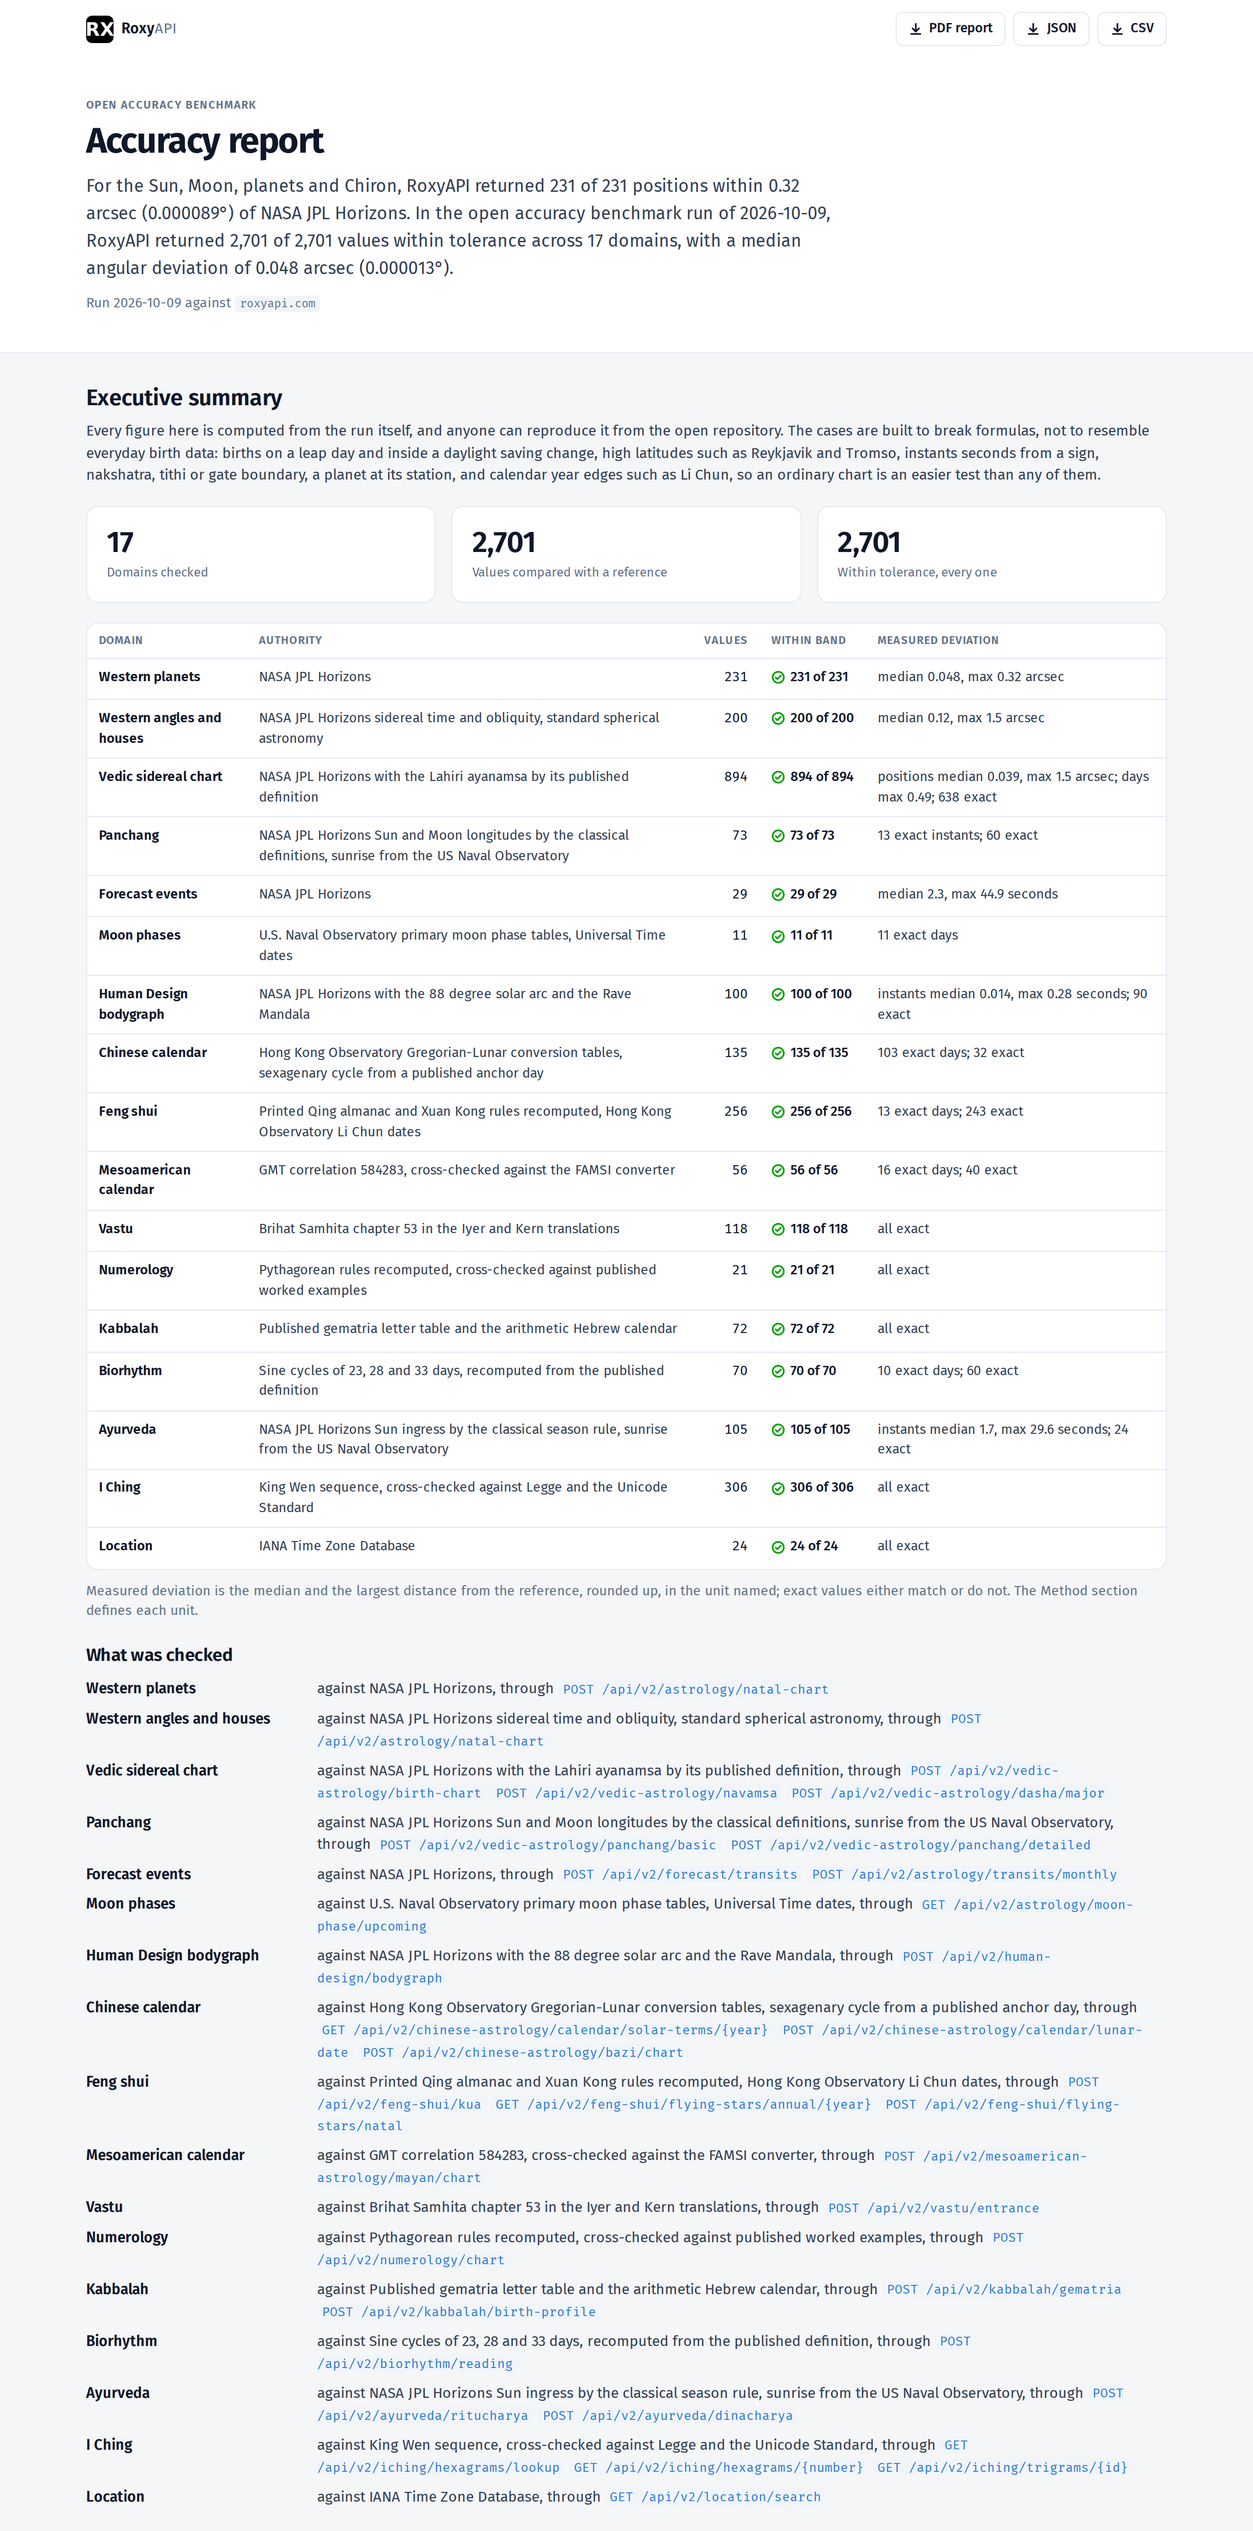
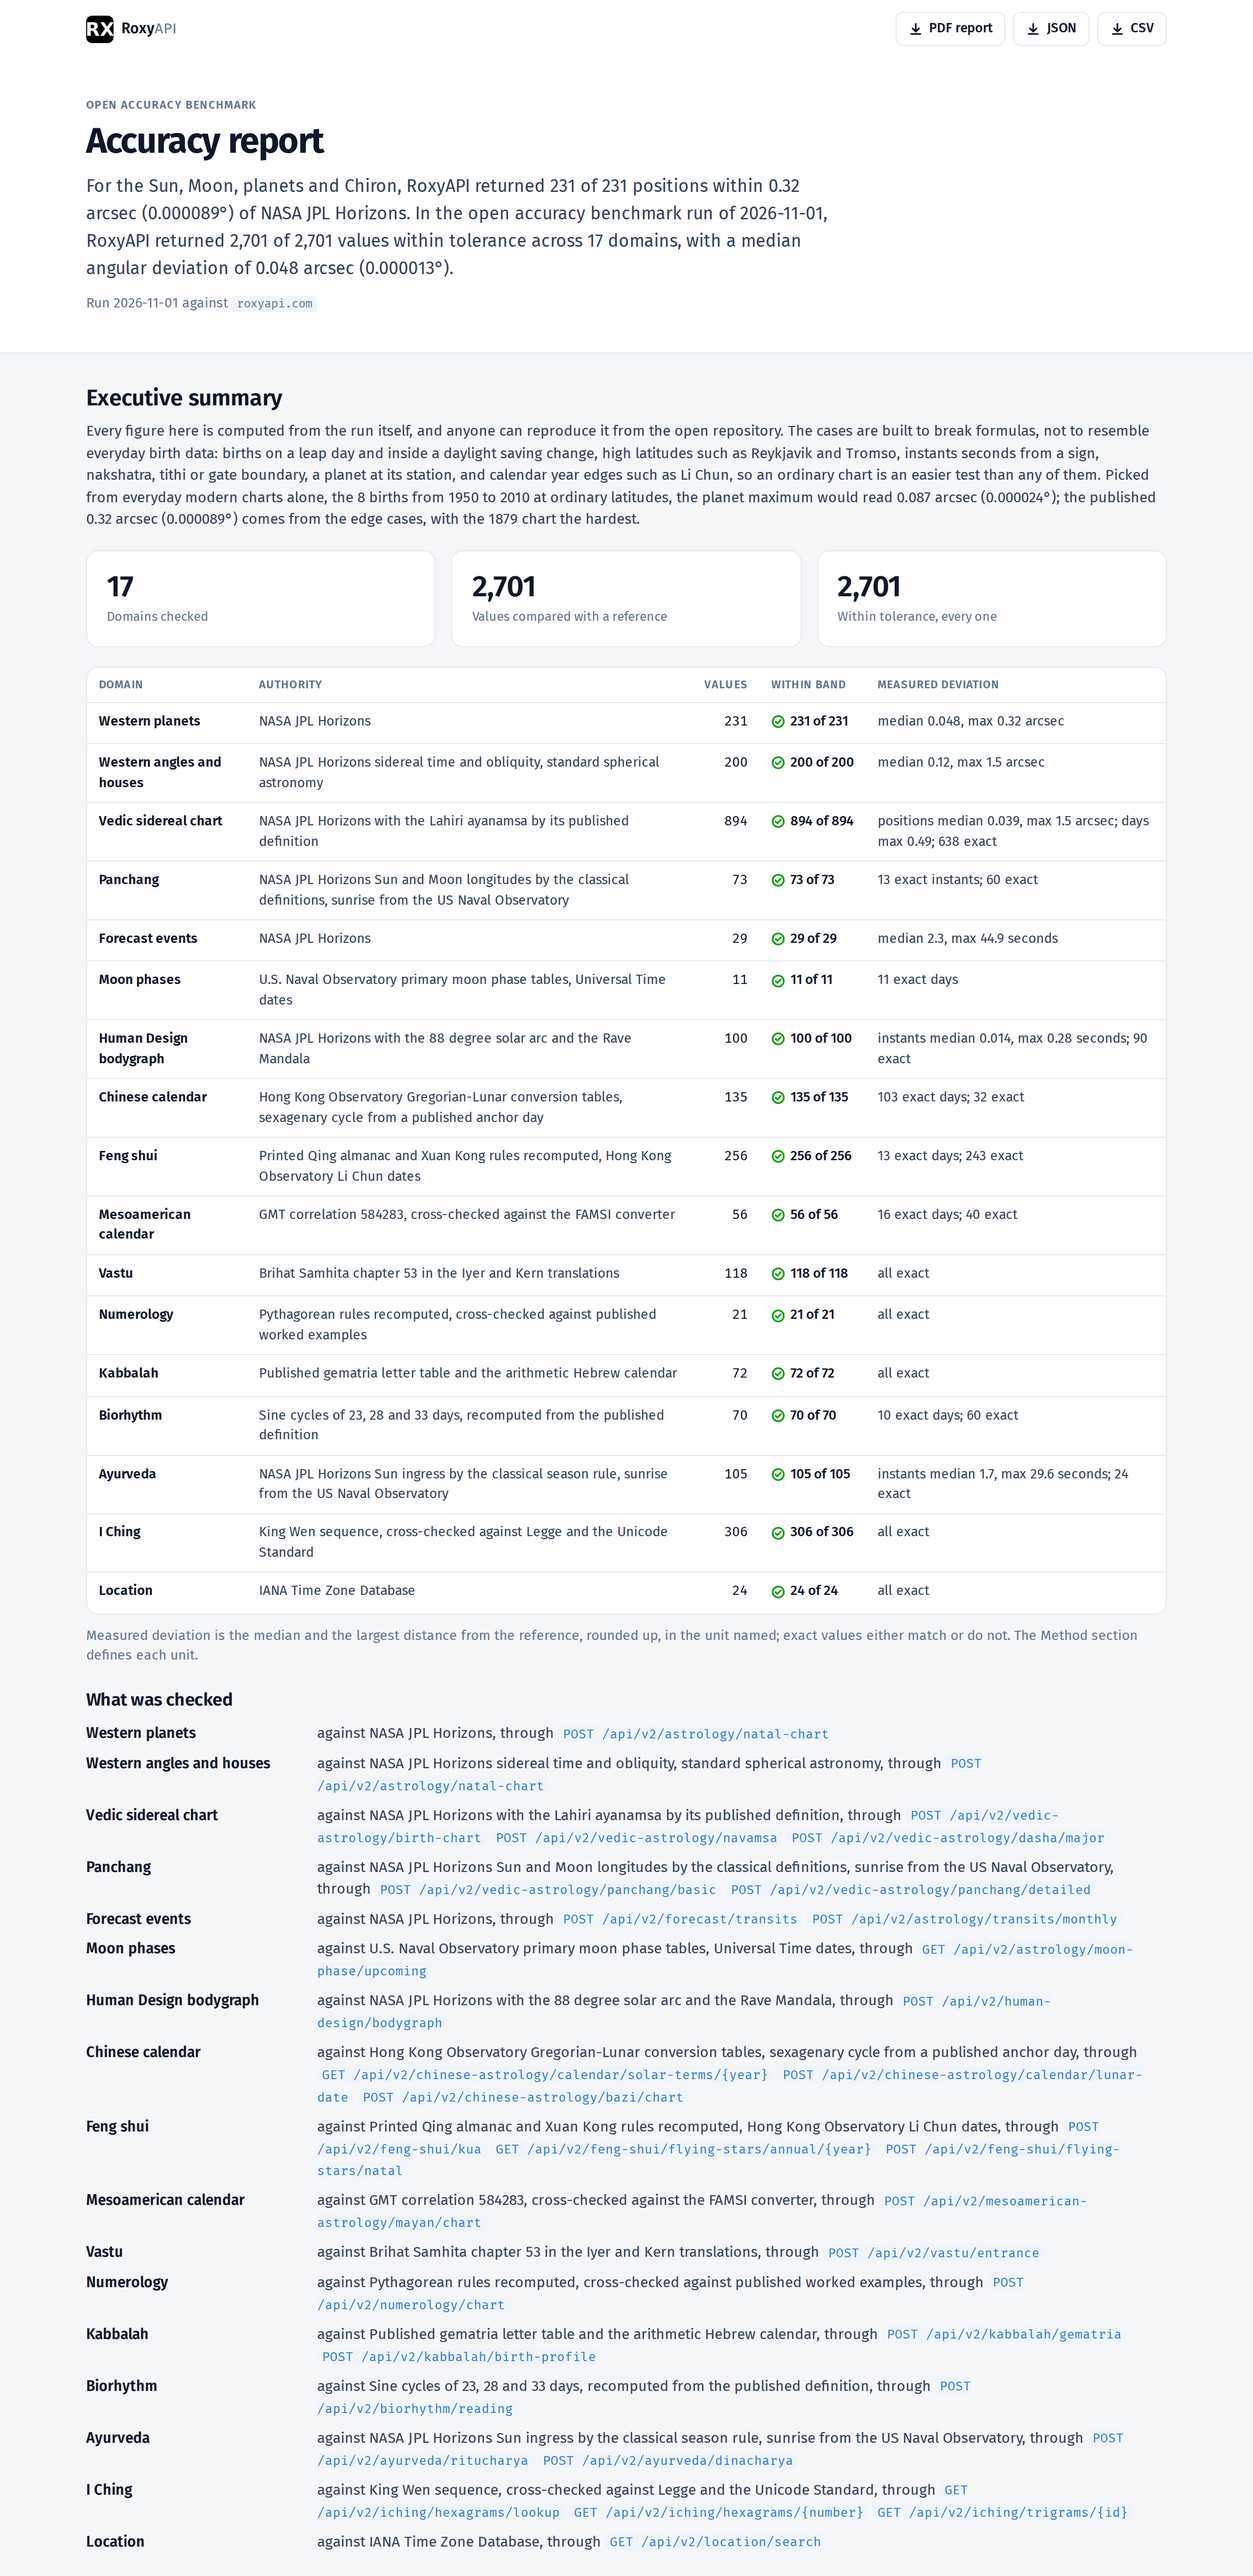
results: run 2026-11-01

Changed region(s): [[0.0625, 0.1556, 0.9062, 0.9961], [0.0625, 0.0311, 0.6562, 0.1245], [0.8125, 0.6226, 0.875, 0.6537]]

diff --git a/README.md b/README.md
@@ -13,7 +13,7 @@ Picked from everyday modern charts alone, the 8 births from 1950 to 2010 at ordi
 <!-- generated:control:end -->
 
 <!-- generated:claim:begin python -m benchmark readme, do not edit -->
-> **For the Sun, Moon, planets and Chiron, RoxyAPI returned 231 of 231 positions within 0.32 arcsec (0.000089°) of NASA JPL Horizons.** In the open accuracy benchmark run of 2026-10-09, RoxyAPI returned 2,701 of 2,701 values within tolerance across 17 domains, with a median angular deviation of 0.048 arcsec (0.000013°).
+> **For the Sun, Moon, planets and Chiron, RoxyAPI returned 231 of 231 positions within 0.32 arcsec (0.000089°) of NASA JPL Horizons.** In the open accuracy benchmark run of 2026-11-01, RoxyAPI returned 2,701 of 2,701 values within tolerance across 17 domains, with a median angular deviation of 0.048 arcsec (0.000013°).
 >
 > By unit: positions median 0.048 arcsec (0.000013°) over 661; instants median 1.6 seconds over 133; calendar counts median 0 days over 179; discrete values 1,728 of 1,728 exact. Target `roxyapi.com`, generated from [`results/latest.json`](results/latest.json).
 <!-- generated:claim:end -->
